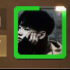
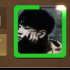
棋盘区域可显示对方变化

diff --git a/app/chess/board_display.py b/app/chess/board_display.py
@@ -1,0 +1,126 @@
+import os
+from PySide6.QtWidgets import QLabel
+from PySide6.QtGui import QPixmap, QPainter
+from PySide6.QtCore import Qt, QRect
+
+class BoardDisplay(QLabel):
+    def __init__(self, parent=None):
+        super().__init__(parent)
+        self.setAlignment(Qt.AlignCenter)
+        self.pieces = []  # 存储当前棋盘上的棋子，每个元素是 (piece_type, x, y) 的元组
+        self.board_size = (9, 10)  # 象棋棋盘大小：9列10行
+        self.cell_size = 0  # 格子大小，将在resizeEvent中计算
+        self.margin = 20  # 棋盘边距
+        self.is_black_bottom = True  # 黑方是否在下方
+        
+        # 加载棋盘背景
+        self.board_bg = QPixmap(os.path.join('app', 'images', 'media', 'chessboard.jpeg'))
+        
+        # 加载棋子图片
+        self.piece_images = {}
+        self._load_piece_images()
+        
+    def _load_piece_images(self):
+        """加载所有棋子图片"""
+        piece_types = {
+            'K': 'red_K.png', 'k': 'black_k.png',  # 将/帅
+            'A': 'red_A.png', 'a': 'black_a.png',  # 士/仕
+            'B': 'red_B.png', 'b': 'black_b.png',  # 象/相
+            'N': 'red_N.png', 'n': 'black_n.png',  # 马
+            'R': 'red_R.png', 'r': 'black_r.png',  # 车
+            'C': 'red_C.png', 'c': 'black_c.png',  # 炮
+            'P': 'red_P.png', 'p': 'black_p.png'   # 兵/卒
+        }
+        
+        for piece, filename in piece_types.items():
+            path = os.path.join('app', 'images', 'media', filename)
+            self.piece_images[piece] = QPixmap(path)
+    
+    def resizeEvent(self, event):
+        """处理窗口大小改变事件"""
+        super().resizeEvent(event)
+        # 计算格子大小
+        width = self.width() - 2 * self.margin
+        height = self.height() - 2 * self.margin
+        self.cell_size = min(width // self.board_size[0], height // self.board_size[1])
+        self.update()
+    
+    def paintEvent(self, event):
+        """绘制棋盘和棋子"""
+        super().paintEvent(event)
+        painter = QPainter(self)
+        
+        # 绘制棋盘背景
+        scaled_board = self.board_bg.scaled(
+            self.width(), self.height(),
+            Qt.KeepAspectRatio,
+            Qt.SmoothTransformation
+        )
+        x = (self.width() - scaled_board.width()) // 2
+        y = (self.height() - scaled_board.height()) // 2
+        painter.drawPixmap(x, y, scaled_board)
+        
+        # 计算实际的格子大小（基于缩放后的棋盘图片）
+        cell_width = scaled_board.width() // self.board_size[0]
+        cell_height = scaled_board.height() // self.board_size[1]
+        
+        # 计算偏移量（格子宽度的十分之一）
+        offset_x = cell_width // 10
+        
+        # 绘制棋子
+        for piece_type, pos_x, pos_y in self.pieces:
+            if piece_type in self.piece_images:
+                piece_img = self.piece_images[piece_type]
+                # 计算棋子位置（放在格子正中间，并添加偏移量）
+                piece_x = x + pos_x * cell_width + cell_width // 2 + offset_x
+                piece_y = y + pos_y * cell_height + cell_height // 2
+                
+                # 缩放棋子图片，使其略小于格子
+                scaled_piece = piece_img.scaled(
+                    int(cell_width * 0.98),  # 棋子宽度为格子的98%
+                    int(cell_height * 0.98),  # 棋子高度为格子的98%
+                    Qt.KeepAspectRatio,
+                    Qt.SmoothTransformation
+                )
+                
+                # 居中显示棋子
+                piece_x -= scaled_piece.width() // 2
+                piece_y -= scaled_piece.height() // 2
+                
+                painter.drawPixmap(piece_x, piece_y, scaled_piece)
+    
+    def update_board(self, fen_str, is_red=True):
+        """根据FEN字符串更新棋盘显示"""
+        print(f"Debug - update_board received is_red: {is_red}, fen_str: {fen_str}")  # 添加调试信息
+        self.pieces.clear()
+        
+        if not fen_str:
+            return
+            
+        # 解析FEN字符串
+        fen = fen_str.split()[0]
+        rows = fen.split('/')
+        
+        # 根据红方位置调整行顺序
+        if not is_red:  # 如果红方不在下方，需要反转行顺序
+            rows.reverse()
+            print("Debug - Reversing rows because is_red is False")  # 添加调试信息
+        
+        for y, row in enumerate(rows):
+            x = 0
+            for char in row:
+                if char.isdigit():
+                    # 数字表示空格的个数
+                    x += int(char)
+                elif char.isalpha():
+                    # 字母表示棋子
+                    # 注意：FEN字符串中，大写字母表示红方，小写字母表示黑方
+                    # 如果红方不在下方，需要反转x坐标
+                    pos_x = 8 - x if not is_red else x
+                    self.pieces.append((char, pos_x, y))
+                    x += 1
+                else:
+                    # 忽略其他字符
+                    continue
+        
+        self.update() 

diff --git a/app/chess/screenshot.py b/app/chess/screenshot.py
@@ -19,45 +19,45 @@ def resource_path(relative_path):
     if hasattr(sys, '_MEIPASS'):  
         # 如果是打包后的应用，则使用 sys._MEIPASS  
         return os.path.join(sys._MEIPASS, relative_path)  
-    return os.path.join(os.path.abspath("./app/"), relative_path) 
+    return os.path.join(os.path.abspath("./app/"), relative_path)
 
 def check_color(region, ranges, threshold):  
     # 截取屏幕区域  
-        with mss.mss() as sct:  
-            # mss.grab()返回的是 BGRA 格式的原始数据 
-            screenshot = sct.grab(region) 
-            # 转成大小确定的图片对象
-            img_np = np.frombuffer(screenshot.bgra, np.uint8).reshape(screenshot.height, screenshot.width, 4)  
-            img_np = img_np[:, :, :3]  # 去掉 alpha 通道  
+    with mss.mss() as sct:  
+        # mss.grab()返回的是 BGRA 格式的原始数据 
+        screenshot = sct.grab(region) 
+        # 转成大小确定的图片对象
+        img_np = np.frombuffer(screenshot.bgra, np.uint8).reshape(screenshot.height, screenshot.width, 4)  
+        img_np = img_np[:, :, :3]  # 去掉 alpha 通道  
   
-            # 保存截图（可选）  
-            # cv2.imwrite('./chess_assistant/app/uploads/rect_region.png', img_np)  
+        # 保存截图（可选）  
+        # cv2.imwrite('./chess_assistant/app/uploads/rect_region.png', img_np)  
   
-            # 转换到 HSV 颜色空间  
-            hsv_img = cv2.cvtColor(img_np, cv2.COLOR_BGR2HSV)  
+        # 转换到 HSV 颜色空间  
+        hsv_img = cv2.cvtColor(img_np, cv2.COLOR_BGR2HSV)  
   
-            # 初始化黄色掩码  
-            color_mask = np.zeros_like(hsv_img[:, :, 0])  
+        # 初始化黄色掩码  
+        color_mask = np.zeros_like(hsv_img[:, :, 0])  
   
-            # 遍历每个黄色范围并更新掩码  
-            for lower, upper in ranges:  
-                lower = np.array(lower, dtype=np.uint8)  
-                upper = np.array(upper, dtype=np.uint8)  
-                color_mask_temp = cv2.inRange(hsv_img, lower, upper)  
-                color_mask = cv2.bitwise_or(color_mask, color_mask_temp)  
+        # 遍历每个黄色范围并更新掩码  
+        for lower, upper in ranges:  
+            lower = np.array(lower, dtype=np.uint8)  
+            upper = np.array(upper, dtype=np.uint8)  
+            color_mask_temp = cv2.inRange(hsv_img, lower, upper)  
+            color_mask = cv2.bitwise_or(color_mask, color_mask_temp)  
   
-            # 形态学操作去除噪点  
-            kernel = np.ones((5, 5), np.uint8)  
-            color_mask = cv2.morphologyEx(color_mask, cv2.MORPH_OPEN, kernel)  
+        # 形态学操作去除噪点  
+        kernel = np.ones((5, 5), np.uint8)  
+        color_mask = cv2.morphologyEx(color_mask, cv2.MORPH_OPEN, kernel)  
   
-            # 计算黄色区域的像素总数  
-            total = cv2.countNonZero(color_mask)  
-            # print(f"目标颜色面积为{total}")  
+        # 计算黄色区域的像素总数  
+        total = cv2.countNonZero(color_mask)  
+        # print(f"目标颜色面积为{total}")  
   
-            if total > threshold:  
-                return True
-            else:    
-                return False 
+        if total > threshold:  
+            return True
+        else:    
+            return False 
     
 def decide_side(rect_region):
     # 绿色、黄色和红色的 HSV 值范围
@@ -103,6 +103,7 @@ def update_params(new_value):
         engine_param = new_value
 
 def capture_region(result_queue, stop_event): 
+    """截图和分析函数"""
     # 启动象棋引擎
     global engine_param
     engine.init_engine()
@@ -127,7 +128,11 @@ def capture_region(result_queue, stop_event):
                     # 识别图片
                     with engine_param_lock:
                         print(f"Engine param is: {engine_param}")
-                        result = process.main_process(screenshot, engine_param)
+                        # 定义显示回调函数
+                        def display_callback(fen_str, is_red=True):
+                            result_queue.put(("分析局面...", fen_str, is_red))
+                            
+                        result = process.main_process(screenshot, engine_param, display_callback)
                         print(f"------>>{result}")
                         if len(result) == 4:
                             result_queue.put(result)

diff --git a/app/ui/main_window.py b/app/ui/main_window.py
@@ -9,6 +9,7 @@ import threading
 import sys
 from chess.screenshot import capture_region, get_position, update_params
 from chess import engine
+from chess.board_display import BoardDisplay
 
 class MainWindow(QMainWindow):
     def __init__(self):
@@ -40,7 +41,7 @@ class MainWindow(QMainWindow):
         main_layout.setContentsMargins(10, 10, 10, 10)
         
         # 顶部文本显示区域
-        self.move_display = QLabel("等待引擎分析...")
+        self.move_display = QLabel('<span style="color: red;">等待引擎分析...</span>')
         self.move_display.setAlignment(Qt.AlignCenter)
         self.move_display.setFont(QFont("Arial", 20, QFont.Bold))
         self.move_display.setStyleSheet("""
@@ -55,16 +56,9 @@ class MainWindow(QMainWindow):
         main_layout.addWidget(self.move_display)
         
         # 中间棋盘区域
-        self.board_frame = QFrame()
-        self.board_frame.setStyleSheet("""
-            QFrame {
-                background-color: #e8c887;
-                border: 2px solid #8b4513;
-                border-radius: 5px;
-            }
-        """)
-        self.board_frame.setMinimumHeight(500)  # 调整棋盘高度
-        main_layout.addWidget(self.board_frame)
+        self.board_display = BoardDisplay()
+        self.board_display.setMinimumHeight(500)  # 调整棋盘高度
+        main_layout.addWidget(self.board_display)
         
         # 底部控制区域
         control_layout = QHBoxLayout()
@@ -231,25 +225,28 @@ class MainWindow(QMainWindow):
     def check_queue(self):
         """检查结果队列"""
         if not self.result_queue.empty():
-            text = self.result_queue.get()
-            self.update_text(text)
+            result = self.result_queue.get()
+            if isinstance(result, tuple) and len(result) == 3:
+                text, fen_str, is_red = result
+                self.update_text(text)
+                self.board_display.update_board(fen_str, is_red)
+            else:
+                self.update_text(result)
     
     def update_text(self, text):
         """更新显示文本"""
         if len(text) == 4:
-            self.lines = ["", self.lines[2], text]
+            self.lines = ["", "", text]  # 只保留第一行和第三行
         else:
-            self.lines = [text, self.lines[1], self.lines[2]]
+            self.lines = [text, "", self.lines[2]]
         
         # 更新显示
         display_text = ""
         for i, line in enumerate(self.lines):
             if i == 0:
                 display_text += f'<span style="color: red; font-size: 18pt;">{line}</span><br>'
-            elif i == 1:
-                display_text += f'<span style="font-size: 26pt;">{line}</span><br>'
-            else:
-                display_text += f'<span style="color: white; font-size: 34pt;">{line}</span>'
+            elif i == 2:
+                display_text += f'<span style="color: black; font-size: 34pt;">{line}</span>'
         
         self.move_display.setText(display_text)
         

diff --git a/app/chess/process.py b/app/chess/process.py
@@ -3,7 +3,7 @@ from tools import utils
 
 last_position = None
 
-def main_process(img_origin, param):  
+def main_process(img_origin, param, display_callback=None):  
     # 棋局图像  
     # img_path = './app/uploads/图像.jpeg' 
 
@@ -27,8 +27,10 @@ def main_process(img_origin, param):
 
     # 转成 FEN字符串
     fen_str, board_array = utils.switch_to_fen(position, is_red)
-    # for i, row in enumerate(board_array):  
-    #     print(row)
+    
+    # 立即显示当前局面
+    if display_callback:
+        display_callback(fen_str, is_red)
 
     # 向引擎发送命令
     move, fen = engine.get_best_move(fen_str, is_red, param)
